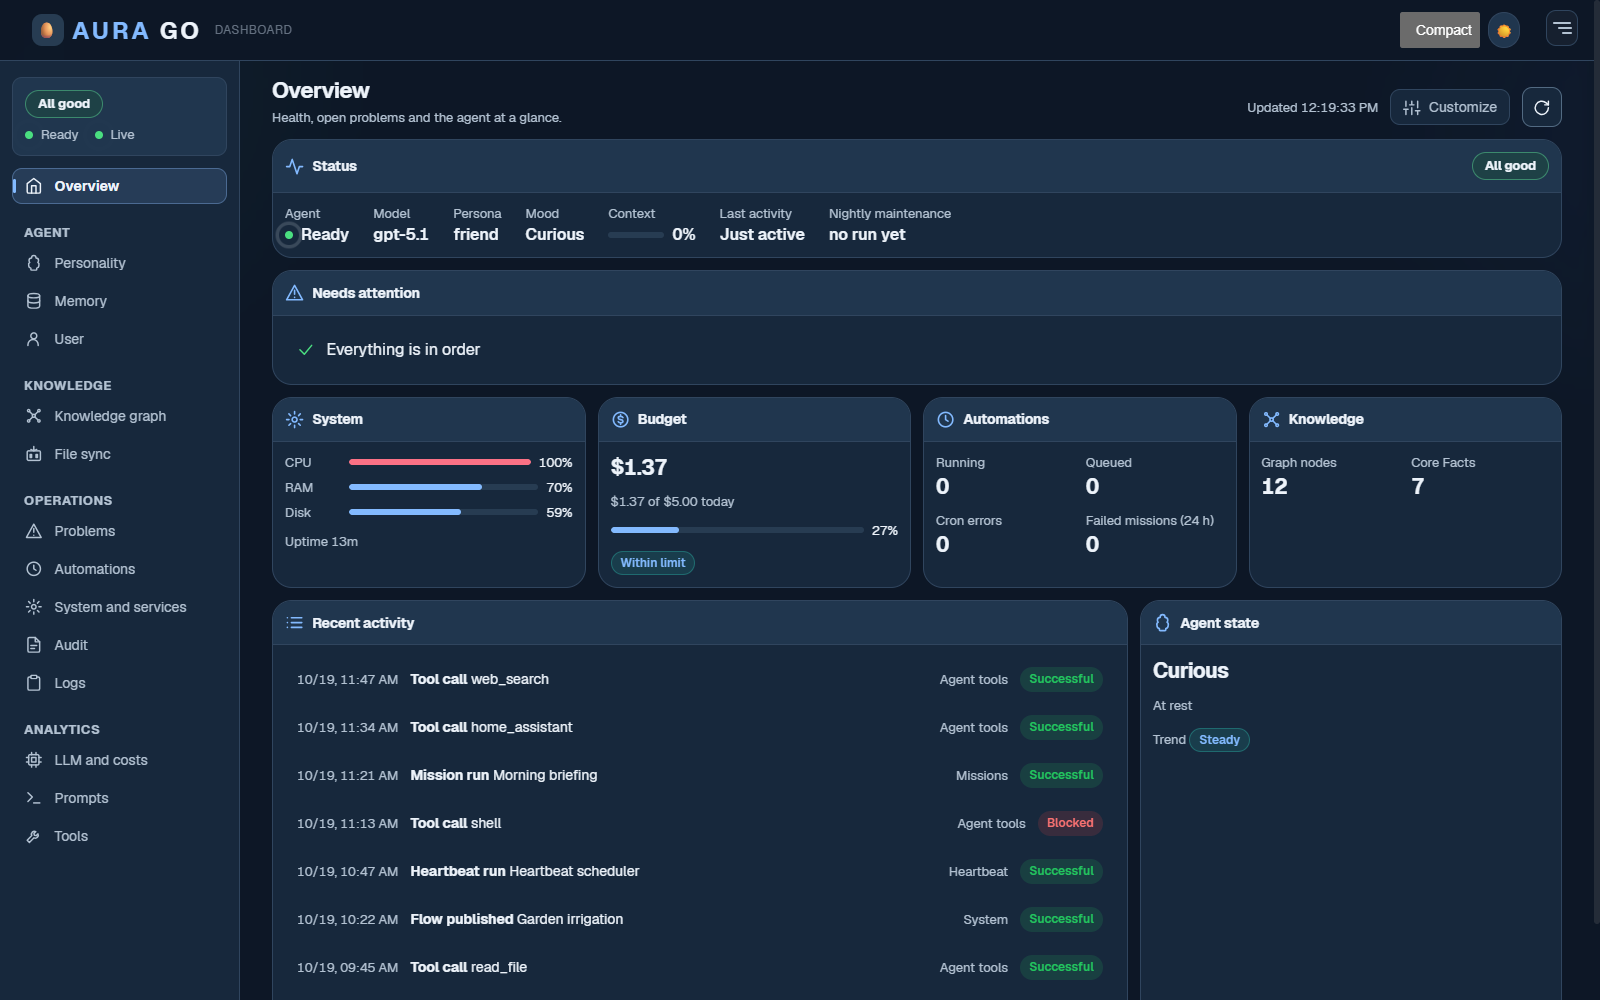
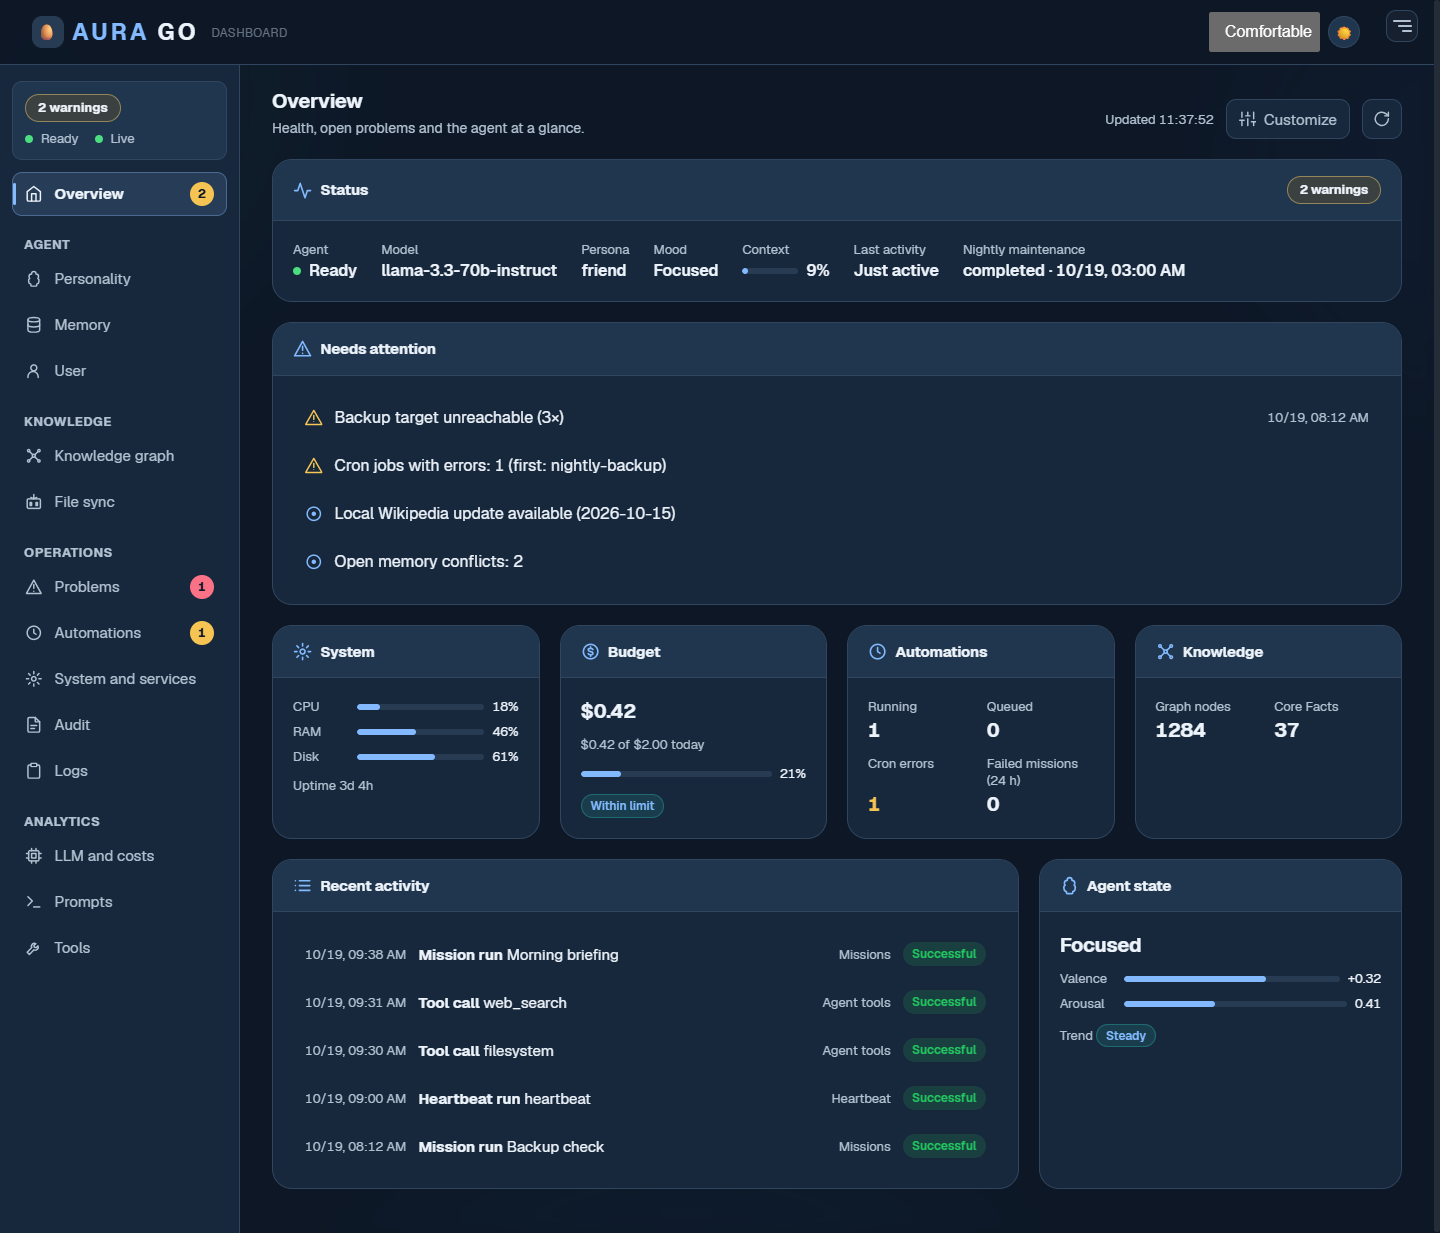
docs(readme): fresh dashboard screenshot and chapter 13 link
Overview at 1440 px, dark, from a local scratch instance with neutral fixtures (summary and personality state hijacked, fixture system metrics). Shown in its own details block after the Chat screenshot; the to-do note is gone.

diff --git a/README.md b/README.md
@@ -27,7 +27,7 @@ Your self-hosted AI agent can SSH into your NAS, talk over mesh radio, build a b
 *October 2026*
 
 - **Video Studio.** A multitrack editor with keyframes, speed ramps, `.cube` LUTs, masks, chroma key, a WebGL2 preview and a project manager with versions. FFmpeg export, with optional GPU encoding. Off by default. [Guide](documentation/video-studio.md)
-- **Dashboard redesign.** A sidebar with 14 sections, customizable overview tiles, a summary feed and attention badges.
+- **Dashboard redesign.** A sidebar with 14 sections, customizable overview tiles, a summary feed and attention badges. [Chapter 13](documentation/manuals/en/13-dashboard.md)
 - **Bookshelf and Mailer.** A reader for EPUB, MOBI/KF8, FB2, CBZ, TXT and PDF, plus a mail client with background sync. [Bookshelf](documentation/bookshelf.md) · [Mailer](documentation/mailer.md)
 - **Galaxa Deluxe and AuraGolf.** A synthwave arcade shooter with 50 animated motifs, and 18 low-poly 3D minigolf holes for up to four players on one device. [Galaxa](documentation/galaxa-expansion.md) · [AuraGolf](documentation/minigolf.md)
 - **Synth Studio.** Five banks of ten presets, a General MIDI bank of 128 synthesized sounds, a piano roll and Web MIDI input. [Guide](documentation/synth-studio.md)
@@ -68,11 +68,18 @@ Your self-hosted AI agent can SSH into your NAS, talk over mesh radio, build a b
 <p align="center"><strong>Around 60 desktop apps · 9 start-menu categories · 3 virtual Spaces · screensavers, animated wallpapers and desktop pets</strong></p>
 
 <details>
-<summary>Chat and dashboard screenshots</summary>
+<summary>Chat screenshot</summary>
 
 [![AuraGo chat](documentation/screenshots/chat.png)](documentation/screenshots/chat.png)
 
-[![AuraGo admin dashboard with sidebar and overview tiles](documentation/screenshots/dashboard.png)](documentation/screenshots/dashboard.png)
+</details>
+
+<details>
+<summary>Dashboard screenshot</summary>
+
+[![AuraGo dashboard overview: sidebar with 14 sections, status line, Needs attention list, tiles, recent activity and agent state](documentation/screenshots/dashboard.png)](documentation/screenshots/dashboard.png)
+
+*Overview with sample data from a local test instance, dark theme.*
 
 </details>
 
